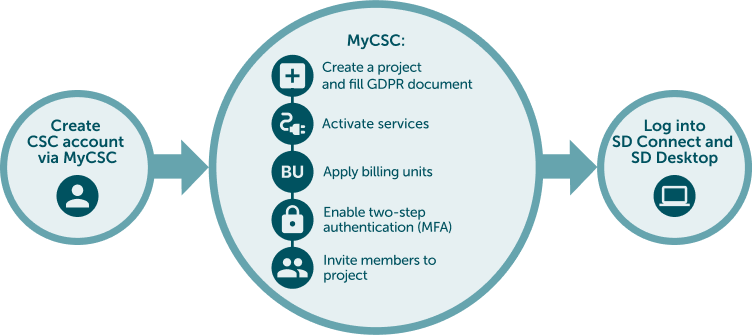
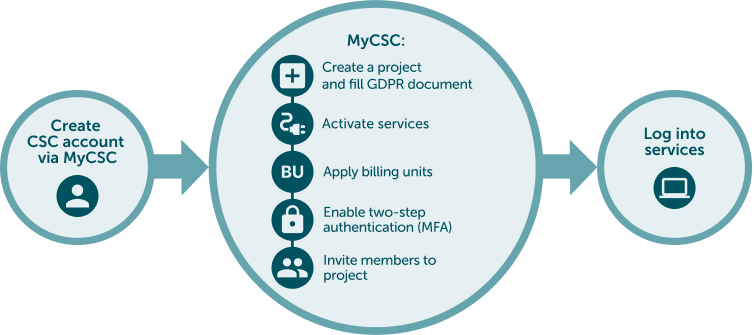
Updates to Start here section and images

Changed region(s): [[0.7931, 0.3582, 0.9761, 0.6567]]

diff --git a/docs/data/sensitive-data/sd-csc-project.md b/docs/data/sensitive-data/sd-csc-project.md
@@ -3,16 +3,17 @@
 
 Contents:
 
-* Plan your billing units and storage usage
-    * SD Connect - billing units and storage space
-    * SD Desktop - billing units and disk space
-    * What happens if your project runs out of billing units?
-    * Billing unit calculator for estimating billing units consumption
-* Closing your CSC project
-    * What happens to your data after the CSC project expires or is closed
+* [Billing units and storage usage](#billing-units-and-storage-usage)
+    * [SD Connect - billing units and storage space](#sd-connect---billing-units-and-storage-space)
+    * [SD Desktop - billing units and disk space](#sd-desktop---billing-units-and-disk-space)
+    * [What happens if your project runs out of billing units?](#what-happens-if-your-project-runs-out-of-billing-units)
+    * [Billing unit calculator for estimating billing units consumption](#billing-unit-calculator-for-estimating-billing-units-consumption)
+* [Closing your CSC project](#closing-csc-project)
+    * [What happens to your data after the CSC project expires or is closed](#what-happens-to-your-data-after-the-csc-project-expires-or-is-closed)
 
 
-## Plan your billing units and storage usage
+
+## Billing units and storage usage
 
 **Billing Unit (BU)** is CSC's own unit system, that measures, how much resources project consumes. Every project consumes billing units, but most cases **no actual payment** is required. Sensitive Data services are free of charge for research purposes. [Read more about free use cases from research.csc.fi](https://research.csc.fi/free-of-charge-use-cases){ target="_blank" }.
 

diff --git a/docs/data/sensitive-data/sd-use-case-new-user-project-manager.md b/docs/data/sensitive-data/sd-use-case-new-user-project-manager.md
@@ -61,8 +61,8 @@ You need to access to SD services. You are manager of research team or work inde
 ### 5. Apply resources (billing units) for your project
 
 - All Sensitive Data Services consumes billing units (BU's). 
-- All new academic CSC projects are initially granted 10 000 BUs, so you can get started. However, you should estimate how many BU’s your project will consume **during 1 year** and apply more if needed. When you start a new project, you should plan ahead for your [project's billing unit and storage usage](sd-manage-project.md).
-- Use the [billing unit calculator](sd-manage-project.md#billing-unit-calculator-for-estimating-billing-units-consumption) for estimating your BU consumption.
+- All new academic CSC projects are initially granted 10 000 BUs, so you can get started. However, you should estimate how many BU’s your project will consume **during 1 year** and apply more if needed. When you start a new project, you should plan ahead for your [project's billing unit and storage usage](sd-csc-project.md).
+- Use the [billing unit calculator](sd-csc-project.md#billing-unit-calculator-for-estimating-billing-units-consumption) for estimating your BU consumption.
 - Apply more billing units by clicking "Apply for resources".
 - You will get more info through inbox, after your application.
 - You can always ask help from [Service Desk](../../support/contact.md) *Subject: Sensitive Data*

diff --git a/docs/data/sensitive-data/sd-access.md b/docs/data/sensitive-data/sd-access.md
@@ -6,9 +6,11 @@ If you are a new Sensitive Data (SD) services user, this section is for you. Her
 
 Before logging into SD Connect or SD Desktop for the first time, you must do some preparations based on your role in research team. 
 
+### CSC project enables service usage
+
 Using CSC services is based on CSC projects managed in MyCSC customer portal. Each CSC project has a primary user, a project manager, who can add members and manages access to the services. A project manager is responsible for the project's activities and acts as the data controller (or academic organization) representative. They, for example, need to describe which type of sensitive data the project is processing.
 
-Next select your role:
+Next select suitable tutorial:
 
 ### Project manager creates and manages CSC project
 * The person who creates the project in MyCSC is the project manager. This is usually done by research team manager. 
